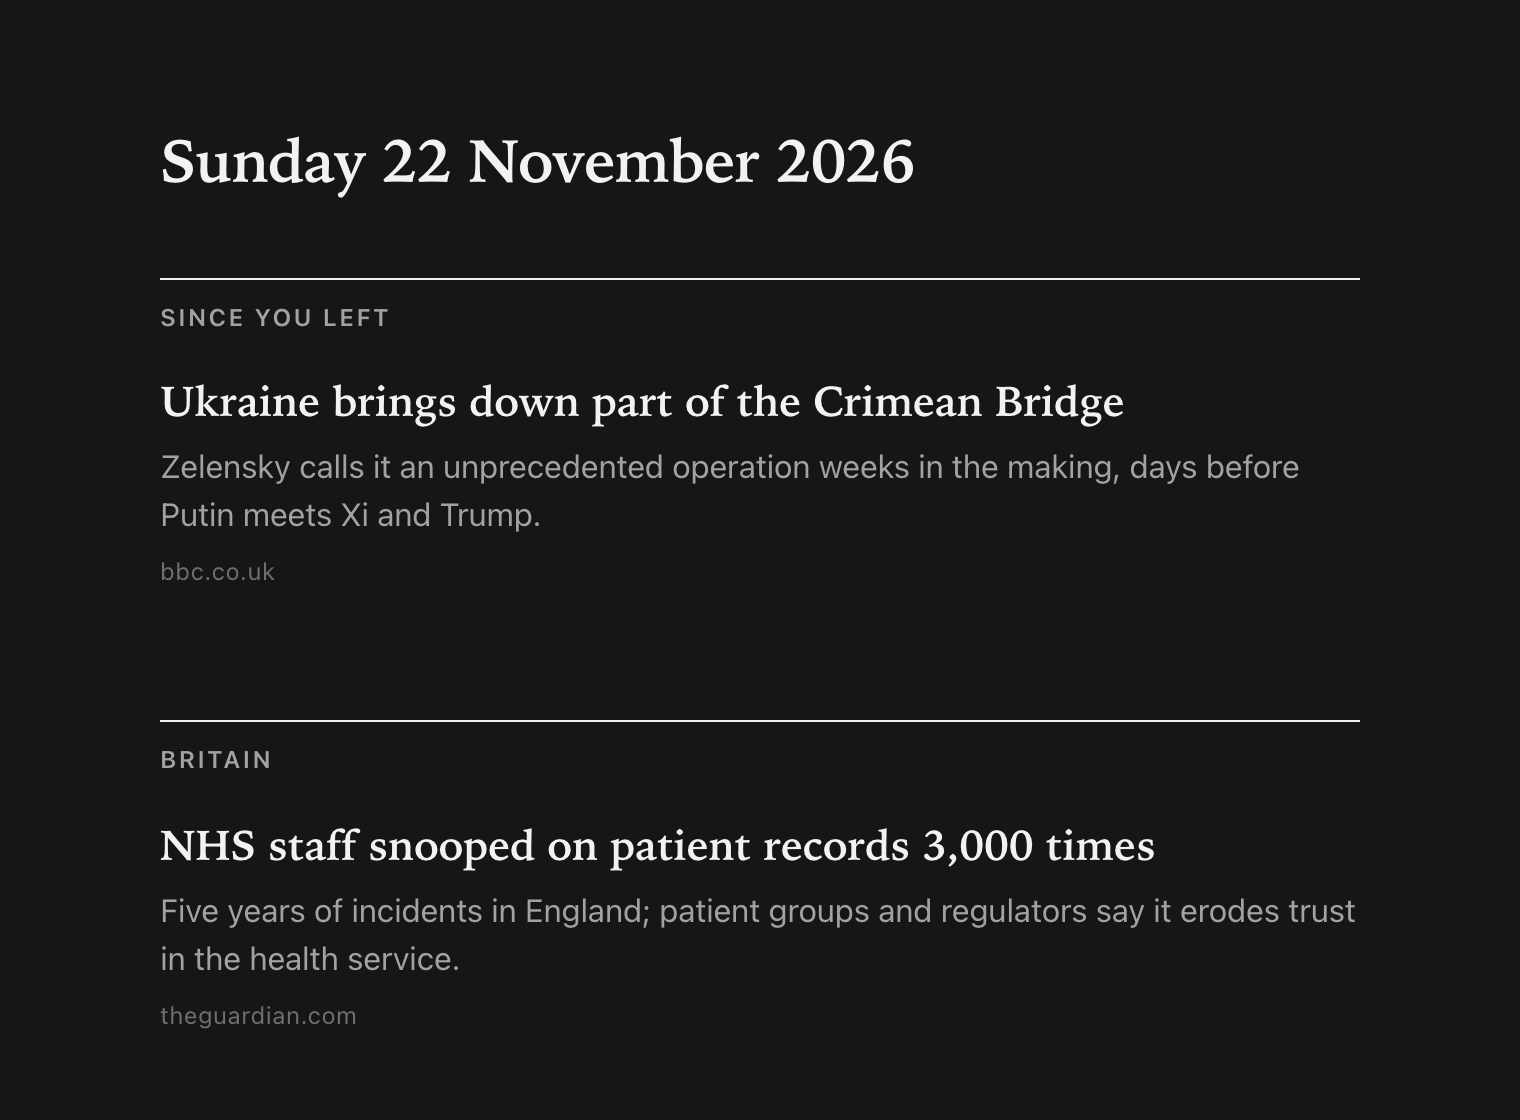
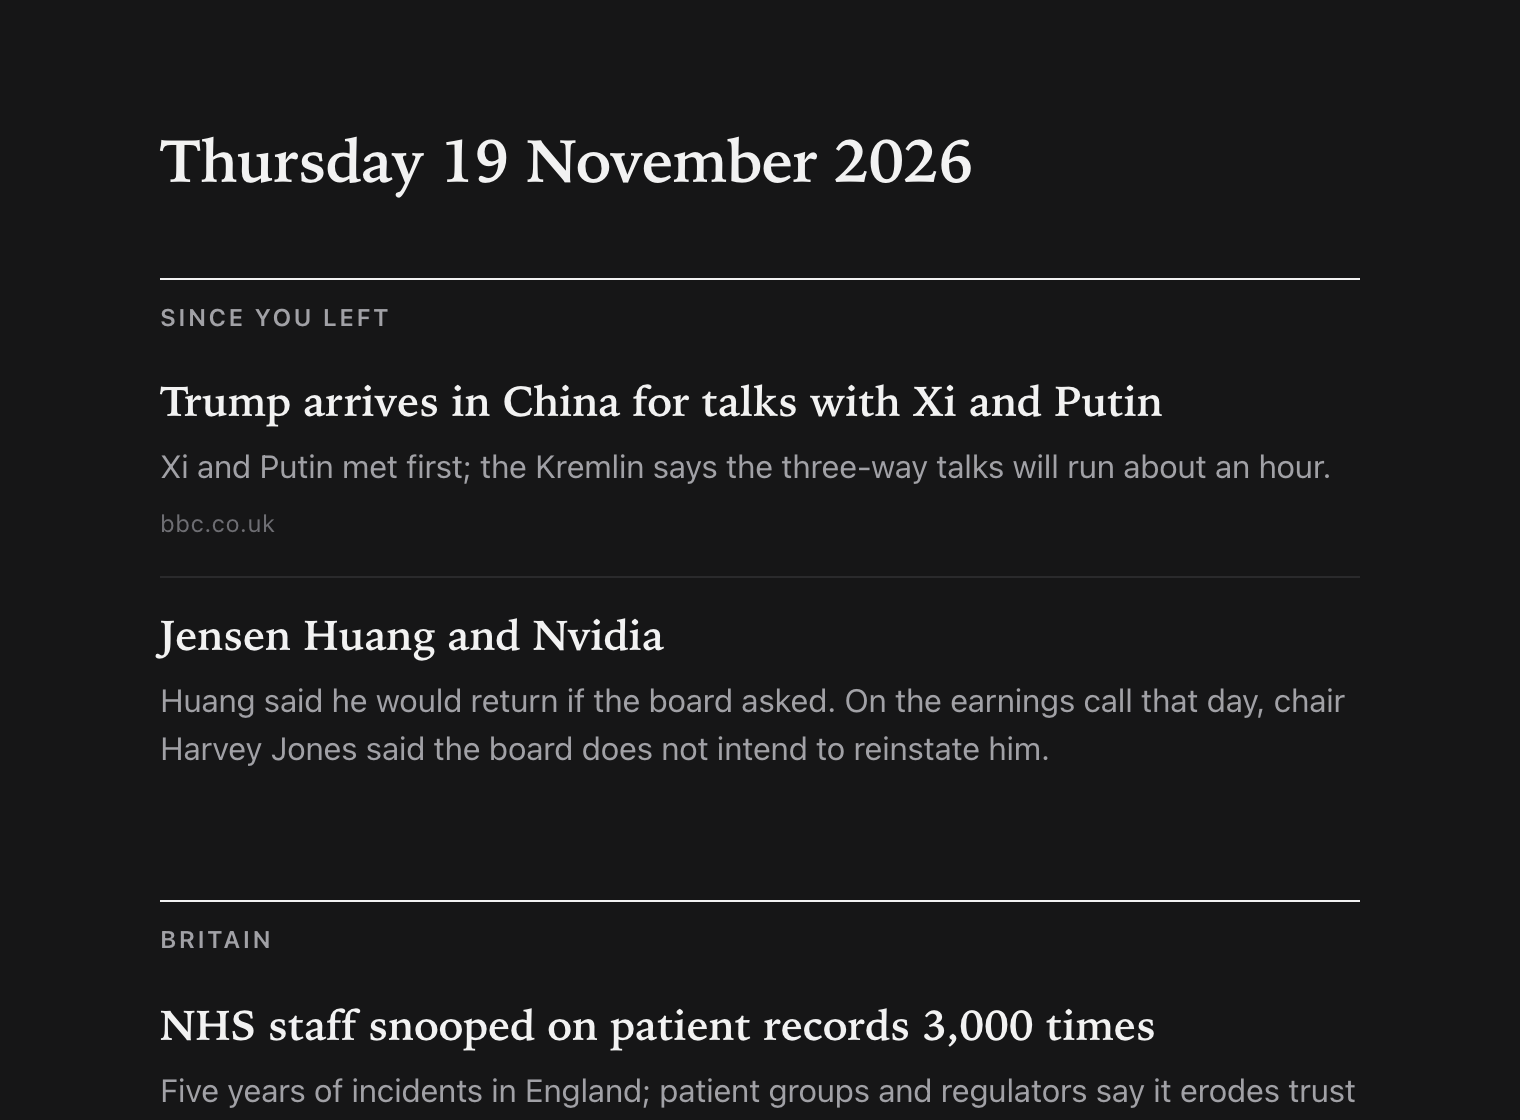
README shots show the dated updates
The hero issue now opens Since you left with a piece on a followed story
and a line for one that moved without a piece. A new shot beside Why shows
a story's own page: the updates since the reader last read it, with what
they knew under Earlier. The stories are real, from the 18 November feed;
each dated update was checked against reporting from that day (CNBC 12 and
16 Nov, Fortune, CNN and KPBS 17 Nov on Nvidia; CNN 16 Nov, the Inquirer,
CNBC and France 24 18 Nov on the Shenzhen summit).

diff --git a/README.md b/README.md
@@ -8,7 +8,7 @@ A morning paper your own Claude writes from the outlets you trust.
 <p align="center">
   <picture>
     <source media="(prefers-color-scheme: dark)" srcset="docs/issue-dark.png">
-    <img src="docs/issue-light.png" alt="An issue opening with Since you left: the stories the reader follows that moved since they last read them" width="640">
+    <img src="docs/issue-light.png" alt="An issue opening with Since you left: a new piece on a story the reader follows, and a line for one that moved without a piece" width="640">
   </picture>
 </p>
 
@@ -20,6 +20,13 @@ follows it for you: each issue opens with **Since you left**, what changed in ea
 stories since you last read about it, a dated line a day, newest first, and nothing you already
 know. A story that has not moved stays out, however big it is. Away for ten days, you get the
 ten days.
+
+<p align="center">
+  <picture>
+    <source media="(prefers-color-scheme: dark)" srcset="docs/story-dark.png">
+    <img src="docs/story-light.png" alt="A story's own page: the updates since the reader last read it, dated and newest first, with what they knew folded under Earlier" width="640">
+  </picture>
+</p>
 
 That is possible because the record of what you read is yours. What you opened, finished,
 marked and asked is a plain file in `~/paper` on your Mac, read only by your own Claude when it
